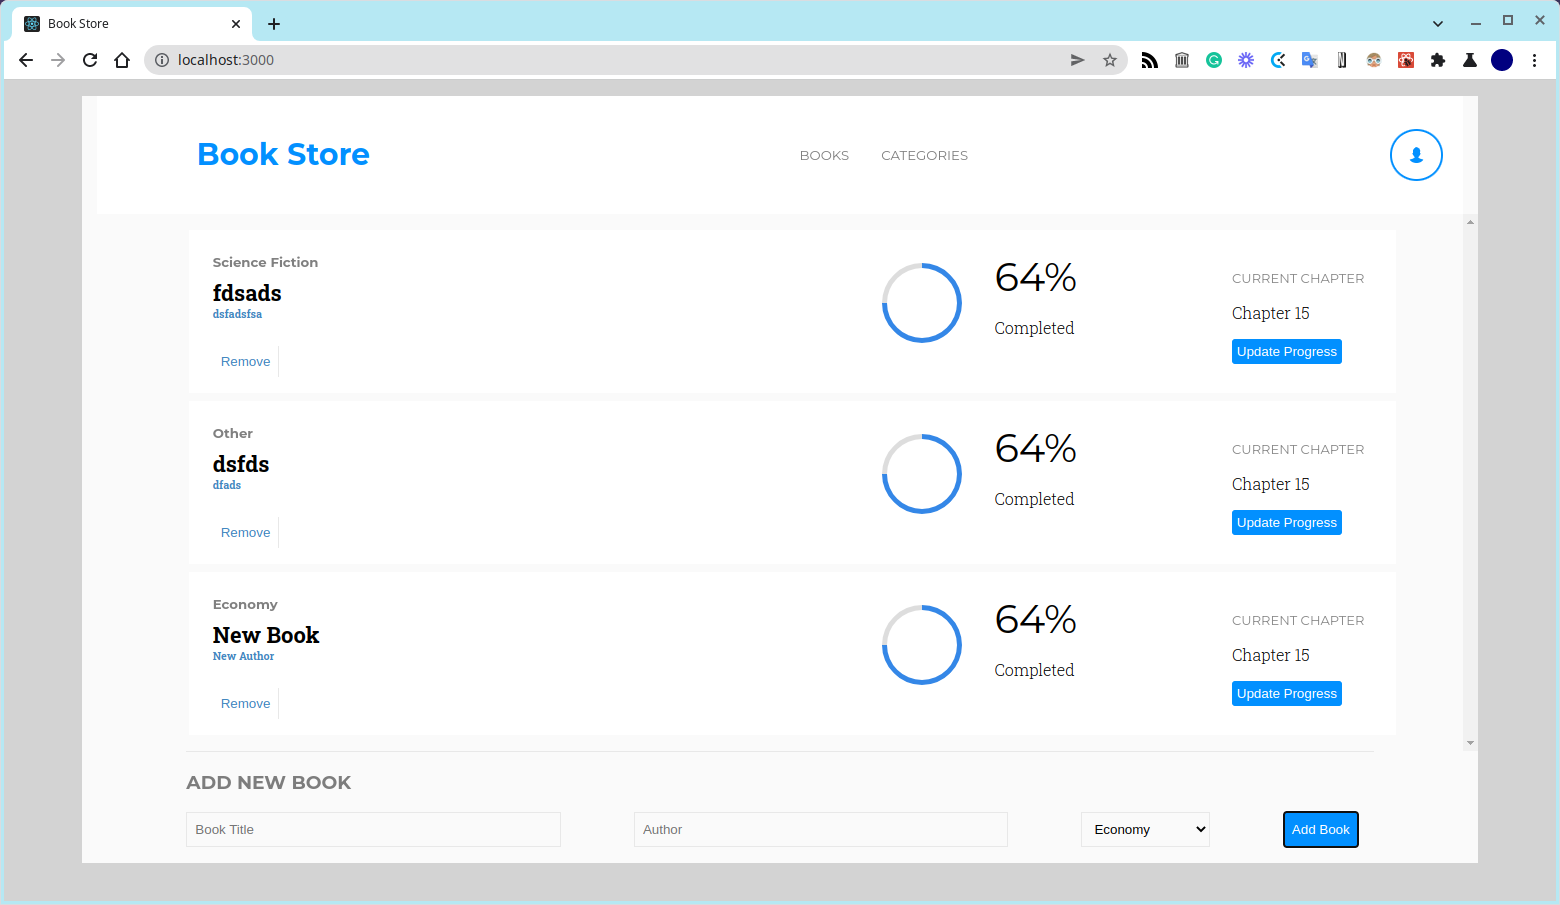
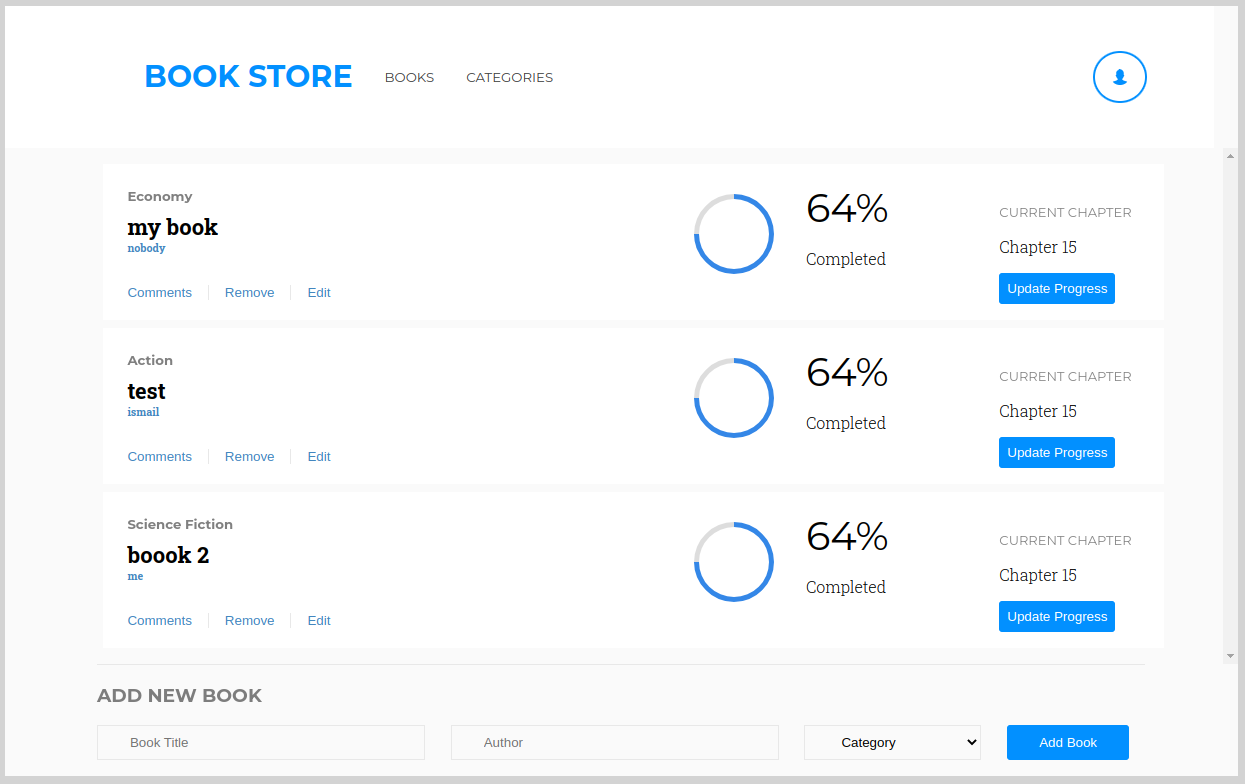
fix styling details

diff --git a/src/style/navbar.css b/src/style/navbar.css
@@ -3,31 +3,29 @@
   background-color: white;
   padding: 1.2rem;
   width: 95%;
-  align-items: center;
-  justify-content: space-between;
-  margin: auto;
+  align-items:center;
+  justify-content:space-between;
 }
 
 .nav ul {
   display: flex;
   list-style: none;
-  color: black;
+  color: #444444;
   text-transform: uppercase;
   align-items: center;
   font-size: 0.83rem;
-  opacity: 0.5;
-  margin: 2rem;
 }
 
 .nav li {
   padding-right: 2rem;
 }
 
-.nav h1 {
+.title {
   font-size: 1.875rem;
   padding-left: 5rem;
   font-weight: bold;
   color: #0290ff;
+  opacity: 1;
 }
 
 .nav img {
@@ -37,4 +35,9 @@
   border: solid #0290ff;
   border-width: 2px;
   border-radius: 50%;
+  margin-right: 3rem;
 }
+
+/* link {
+  opacity: 0.5;
+} */

diff --git a/src/style/book.css b/src/style/book.css
@@ -29,6 +29,7 @@
 .book h6,
 button {
   color: #4386bf;
+  border:none;
 }
 
 .book h6 {
@@ -36,10 +37,15 @@ button {
   margin-top: 0;
 }
 
+.comm-ed {
+  padding: 0;
+}
+
 .remove {
   background: none;
-  border: none;
   border-right: solid 1px #e8e8e8;
+  border-left: solid 1px #e8e8e8;
+  padding: 0 1rem;
 }
 
 .book h5,
@@ -97,6 +103,6 @@ button {
   background-color: #0290ff;
   color: white;
   border: none;
-  padding: 0.3rem;
+  padding: 0.5rem;
   border-radius: 3px;
 }

diff --git a/src/components/Book.js b/src/components/Book.js
@@ -15,6 +15,7 @@ const Book = (props) => {
         <h5>{category}</h5>
         <h4>{title}</h4>
         <h6>{author}</h6>
+        <button className='comm-ed'>Comments</button>
         <button
           className="remove"
           id={id}
@@ -23,6 +24,7 @@ const Book = (props) => {
         >
           Remove
         </button>
+        <button className='comm-ed'>Edit</button>
       </div>
       <div className="graph">
         <div className="pie" />

diff --git a/src/components/NavBar.js b/src/components/NavBar.js
@@ -5,8 +5,10 @@ import head from '../pages/head.svg';
 
 const NavBar = () => (
   <div className="nav">
-    <h1>Book Store</h1>
     <ul>
+      <li>
+        <h1 className='title'>Book Store</h1>
+      </li>
       <li>
         <Link to="/">BOOKS</Link>
       </li>

diff --git a/src/style/addbook.css b/src/style/addbook.css
@@ -8,13 +8,13 @@
 }
 
 .addform input {
-  width: 30%;
+  width: 25%;
 }
 
 .addform input,
 select,
 button {
-  padding: 0.5rem;
+  padding: .5rem 2rem;
   margin-right: 1rem;
   background: none;
   border: 1px solid #e8e8e8;
